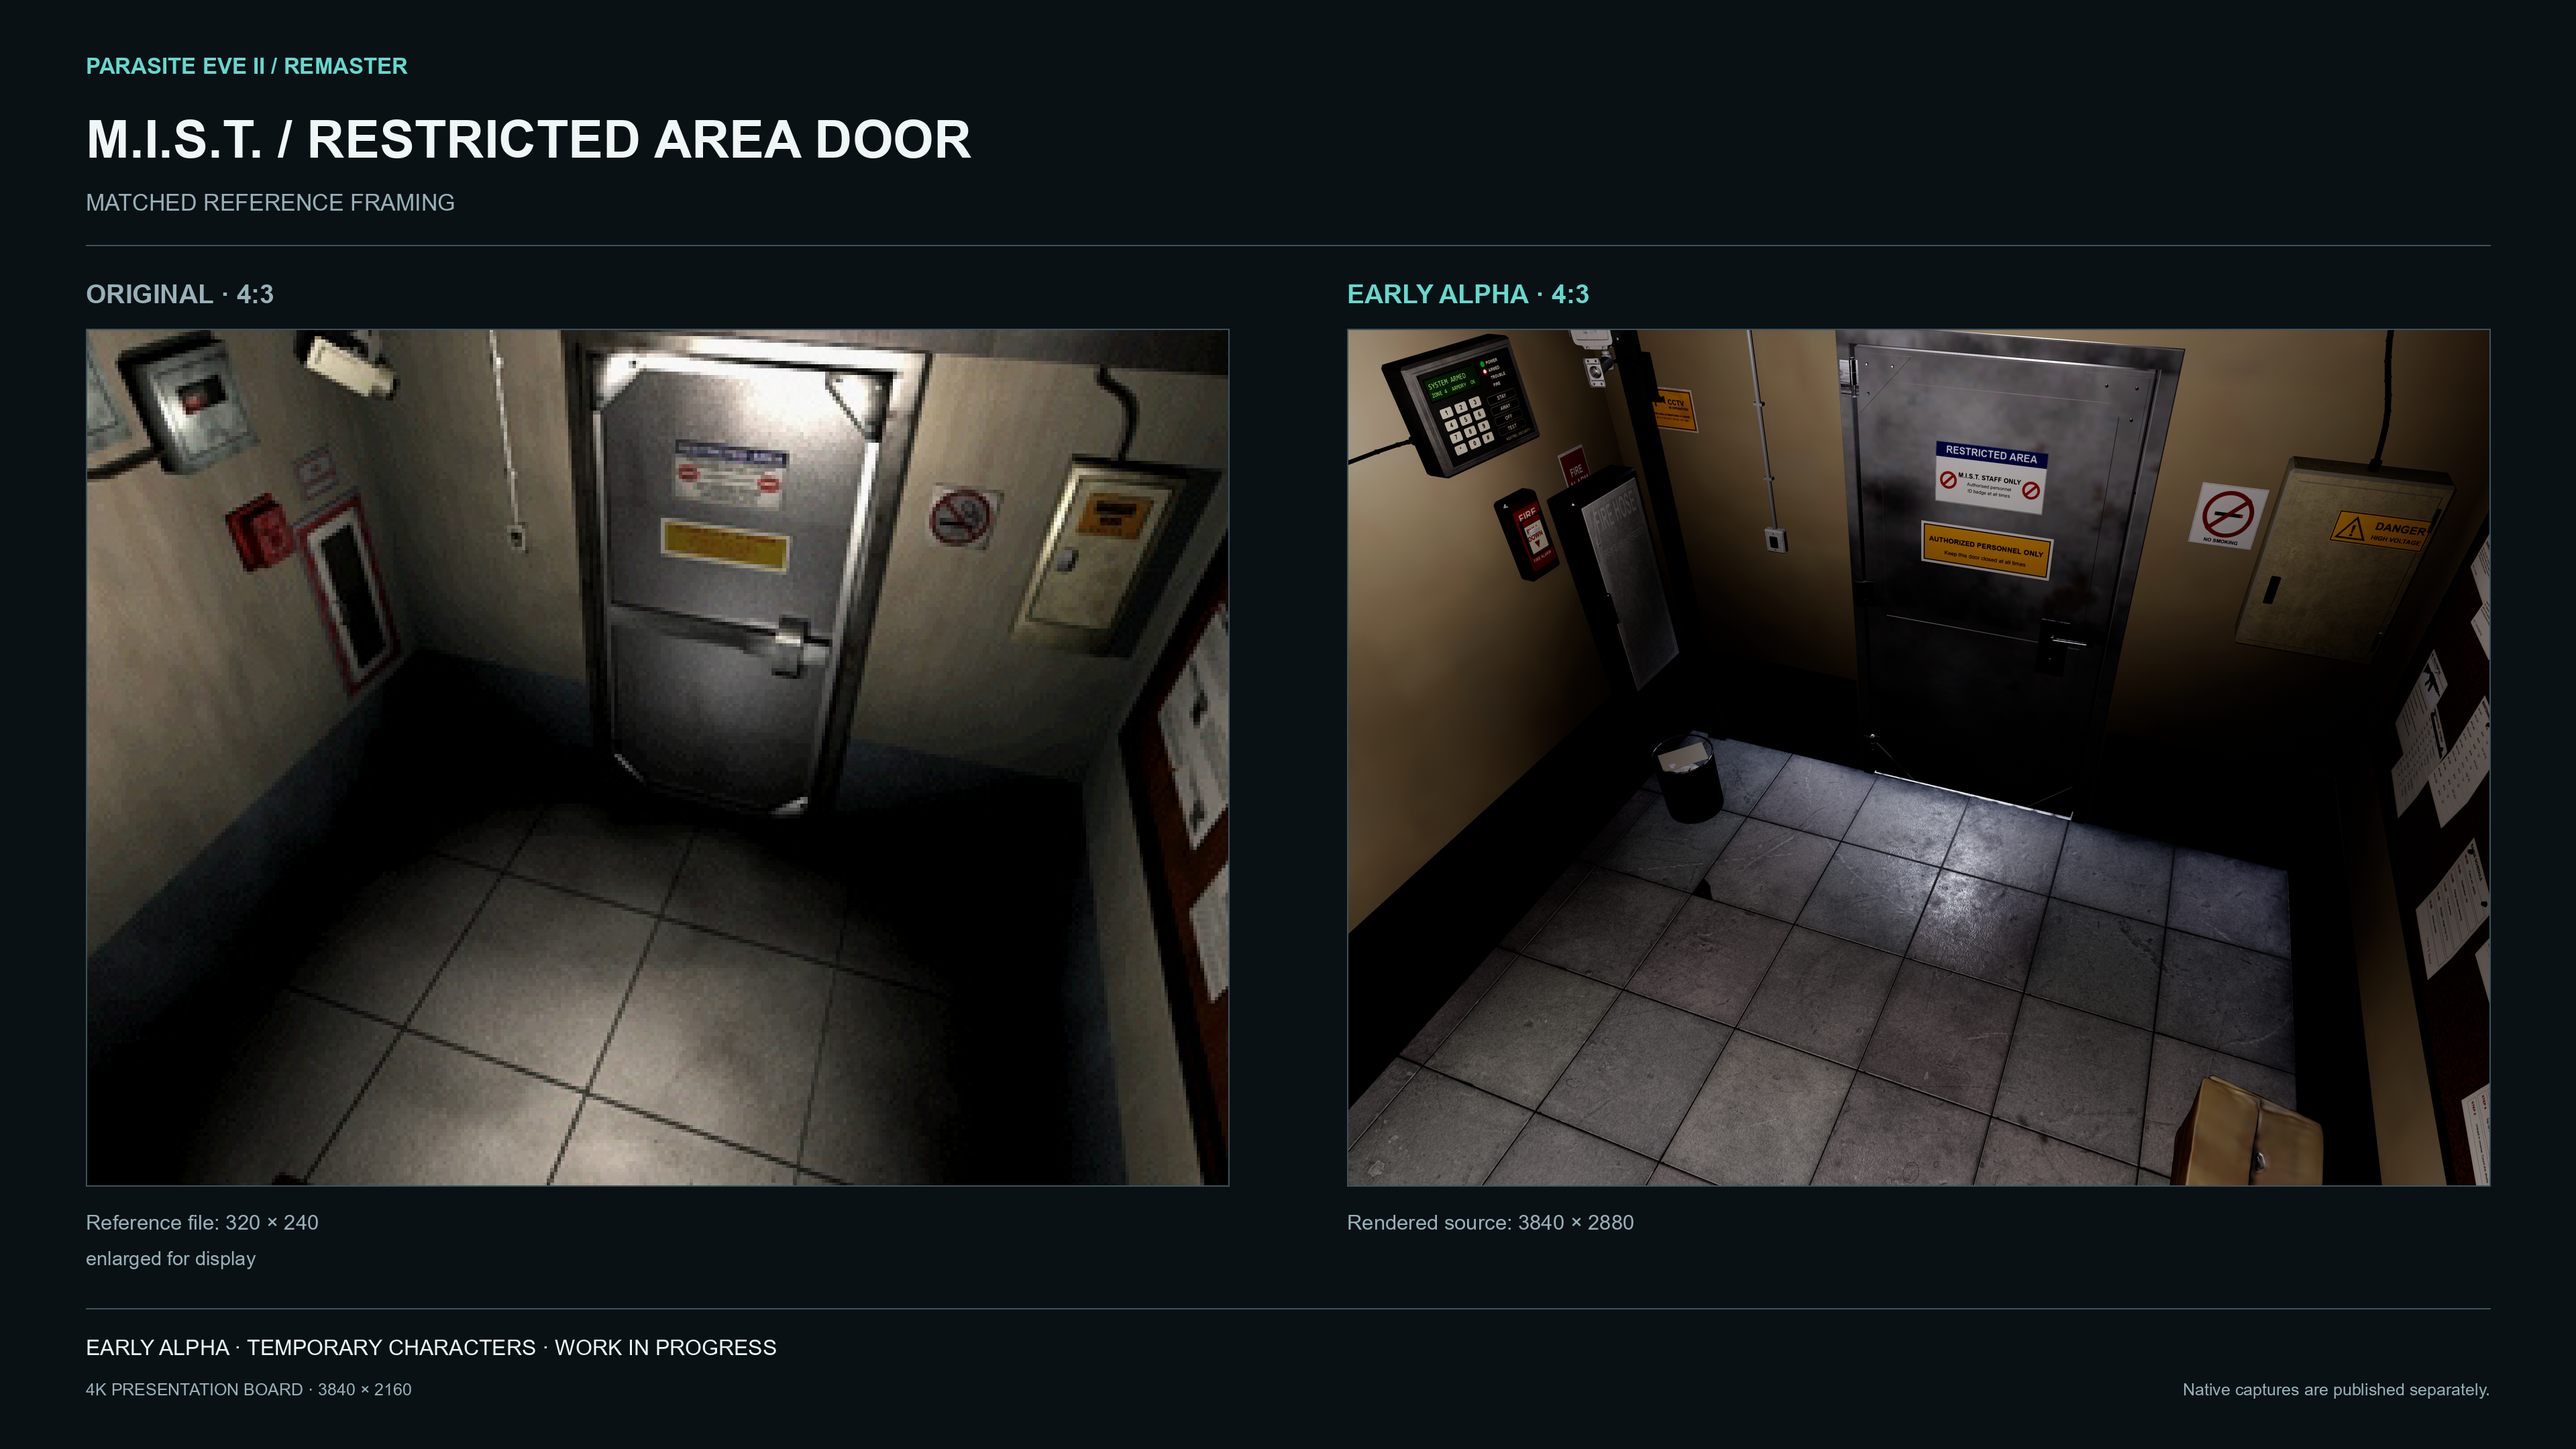
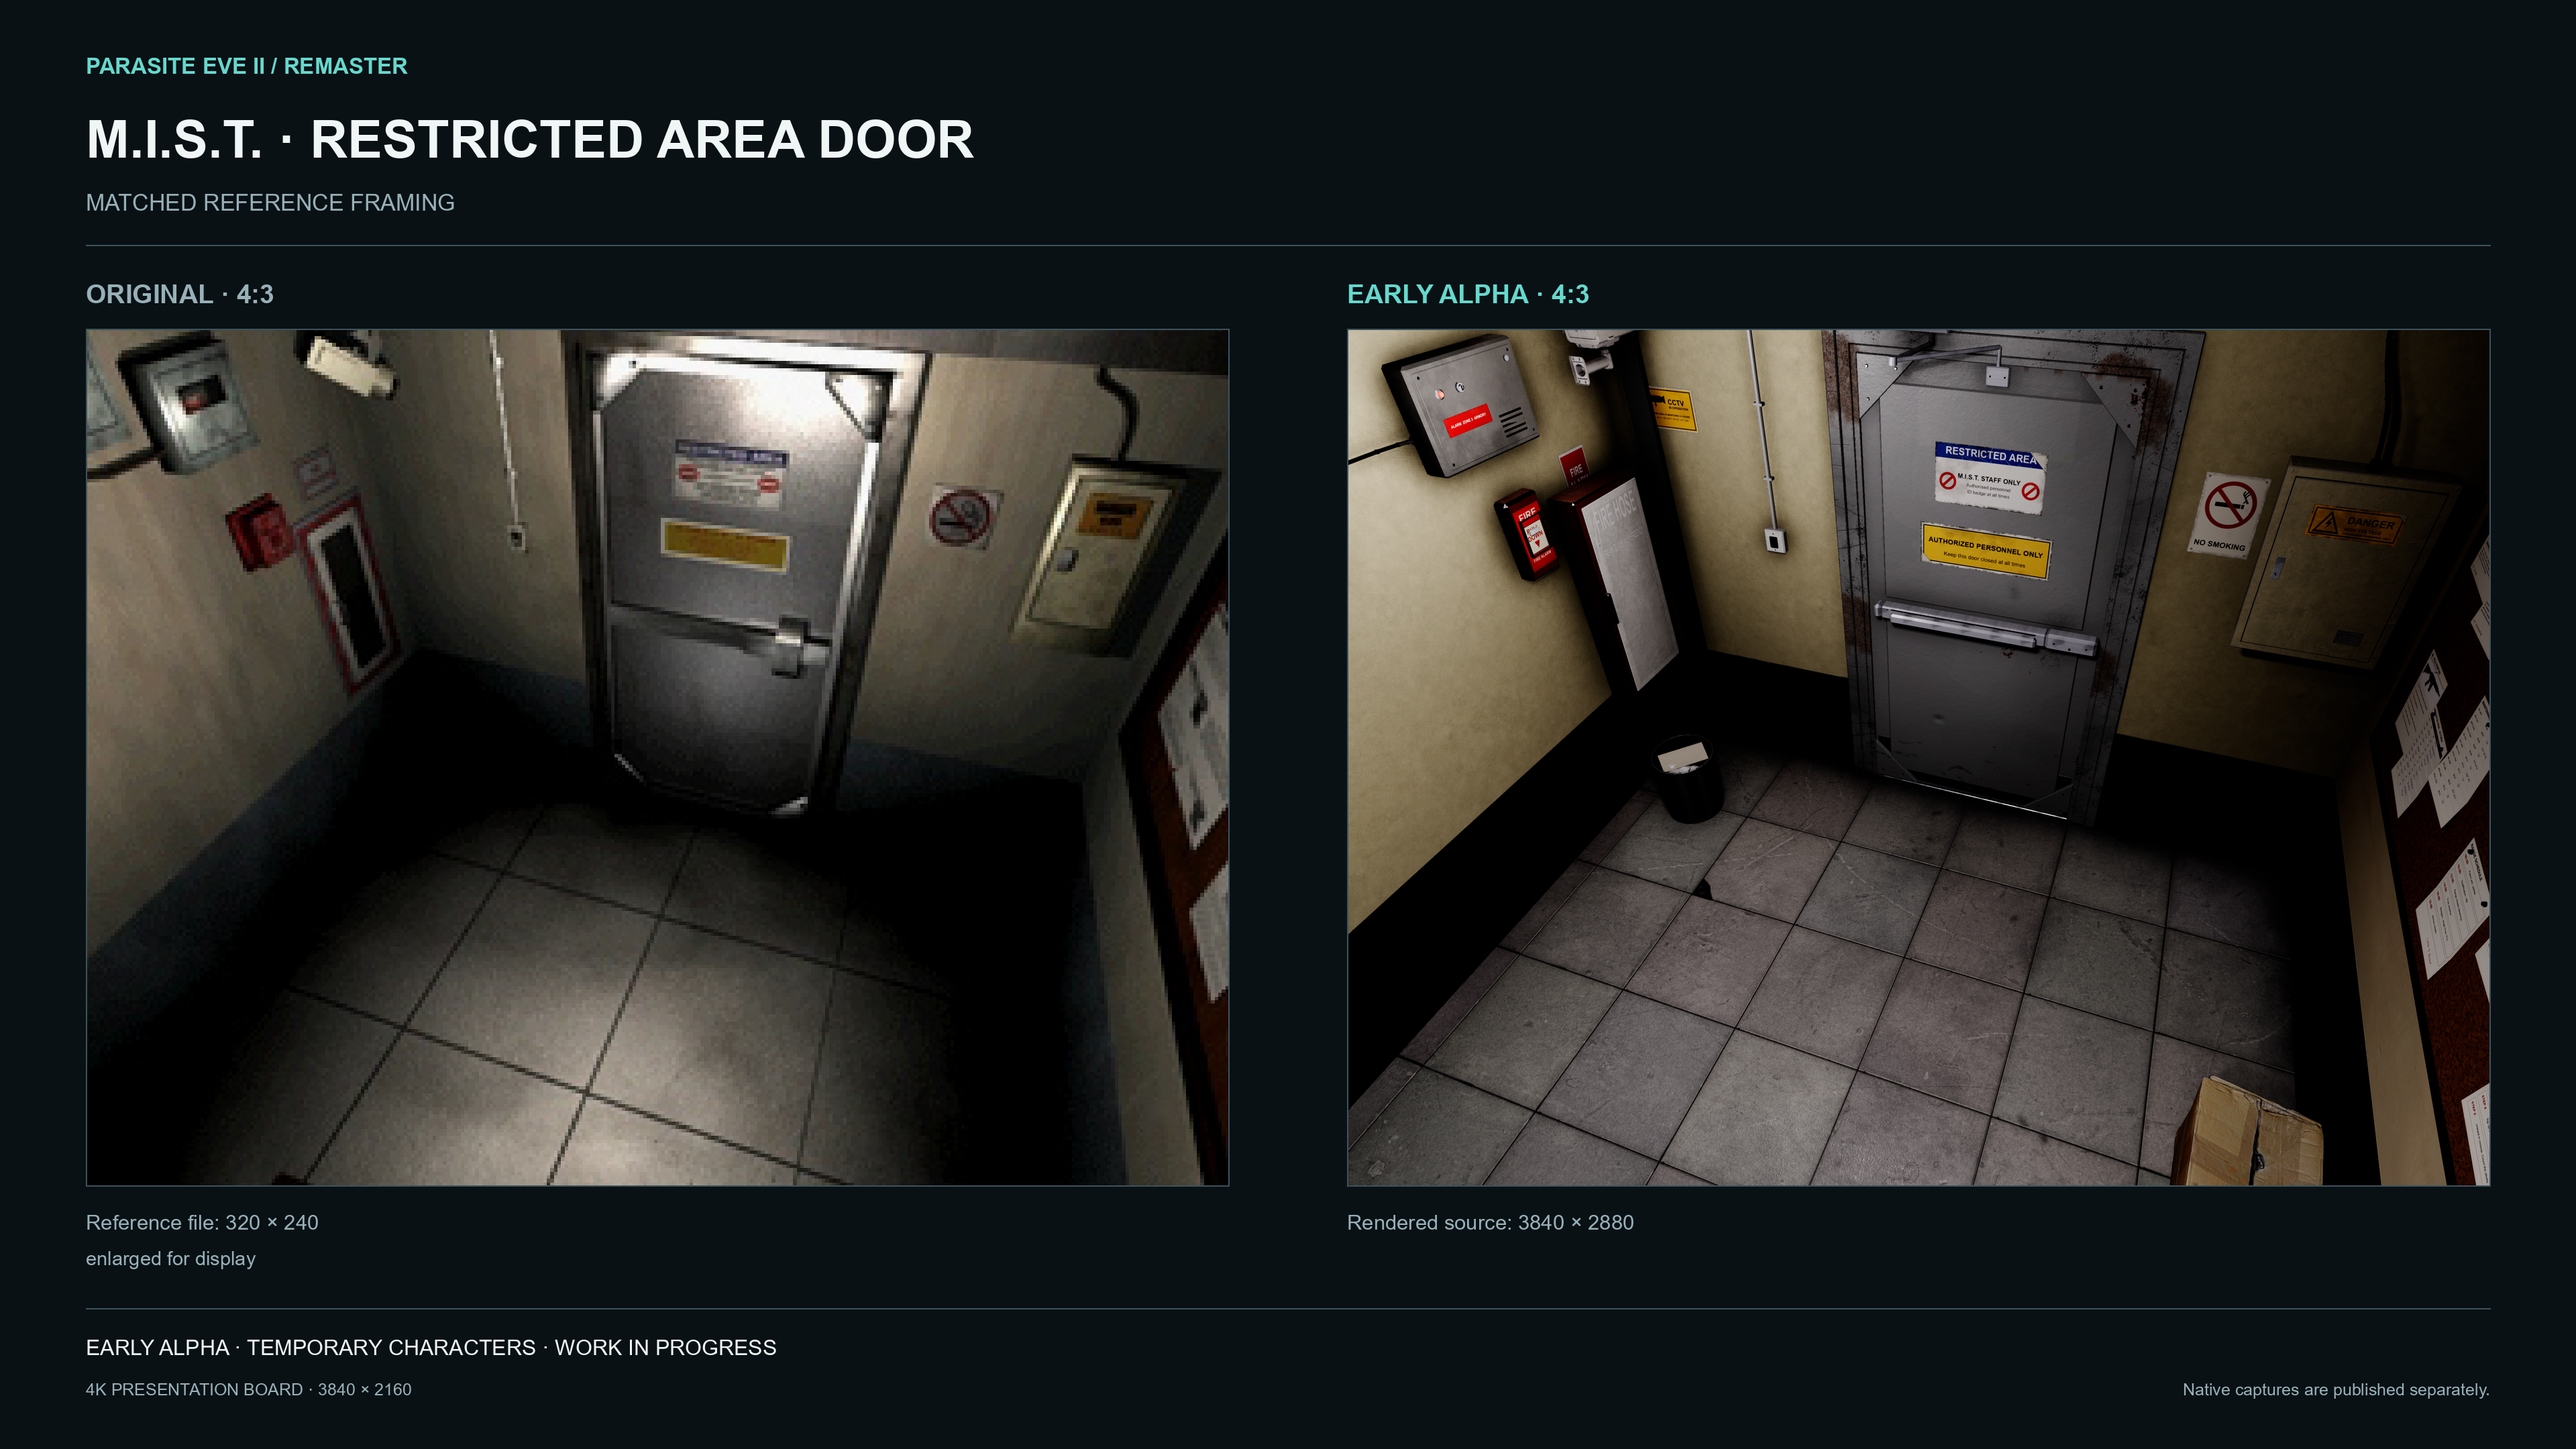
Update the restricted area door: real hardware (Von Duprin 99 exit device, LCN 4041 closer, Square D NQ board) and its own wear, new comparison and native capture

Changed region(s): [[0.5, 0.2171, 0.9688, 0.8375], [0.125, 0.062, 0.375, 0.1241]]

diff --git a/docs/PROGRESS.fr.md b/docs/PROGRESS.fr.md
@@ -19,6 +19,19 @@ Le travail avance par passes : construire, comparer, tester, puis corriger. Les 
 
 Aucune date de sortie n’est annoncée. Les voix, les cinématiques et l’extension au-delà des espaces actuels restent des pistes pour la suite.
 
+## Porte de la zone d’accès restreint du M.I.S.T. — point du 1er novembre 2026
+
+**Du vrai matériel, aux vraies dimensions.** Chaque équipement autour de la porte de la zone d’accès restreint reprend un produit réel, aux cotes du catalogue :
+- **La barre antipanique** est une Von Duprin 99 en chrome satiné : le rail du mécanisme de 57 × 57 mm, sa palette de poussée, l’embout et le boîtier central au-dessus du pêne, à 101 cm du sol.
+- **Le ferme-porte** est un LCN 4041 posé sur le dormant au-dessus de la porte, comme il le serait réellement : le corps sur la traverse haute, le bras qui s’avance dans la pièce, l’avant-bras qui revient à son sabot sur la porte.
+- **Le tableau électrique** est un tableau en applique Square D NQ : son caisson, le capot avec ses quatre vis, la porte affleurante avec son jour d’ombre et sa serrure, l’étiquette DANGER et une plaque signalétique rivetée.
+- **Le panneau NO SMOKING** est une plaque d’aluminium de 20 × 28 cm vissée aux quatre coins. Le coffret d’alarme montre ce que l’original montre : un coffret gris avec un voyant rouge, ici avec son contact à clé et une plaque gravée.
+- **La caméra** a maintenant sa platine posée contre le mur.
+
+**Une usure qui raconte quelque chose.** La porte, son cadre et les deux murs ont chacun leur surface peinte, faite une seule fois et jamais répétée. La crasse se concentre là où se posent les mains : autour de la barre, sur l’interrupteur, sur la porte du tableau. Les chaussures laissent du caoutchouc en bas de la porte. La peinture est écaillée le long de la rive jusqu’au primaire rouge, les clés ont rayé autour du cylindre, et un coup de pied a laissé une bosse. Des fissures de tassement partent des angles du linteau. Les stickers sont passés, leurs coins se décollent, et le chiffon a laissé ses traces.
+
+[![La porte de la zone d’accès restreint — original (gauche) et alpha (droite)](../media/comparisons/mist-restricted-door-4x3.png)](../media/alpha/mist-restricted-door-4x3.png)
+
 ## Salle de surveillance et armurerie du M.I.S.T. — point du 30 octobre 2026
 
 **La salle de surveillance.** Le présentoir à pistolets du fond de la salle est refait d’après l’image originale, mesurée point par point : un meuble bas sur tout le mur du fond, quatre gradins clairs inclinés vers la pièce et cinq casiers. Chaque arme repose sur du feutre, tenue par un câble antivol passé dans son pontet, avec son étiquette imprimée ; un casier est vide, son arme sortie. Une joue sombre devant le bureau, que l’original ne dessine jamais, est devenue le panneau de bout du bureau, et le mur au-dessus du présentoir est plus sombre, comme dans l’original.

diff --git a/README.fr.md b/README.fr.md
@@ -30,6 +30,8 @@ Ce dépôt présente les avancées du projet. Il s’agit d’une **alpha de dé
 
 **La salle de surveillance et l’armurerie, recalées sur l’original (30 octobre).** Le présentoir à pistolets de la salle de surveillance est refait d’après l’image originale : quatre gradins inclinés, les armes posées à plat et câblées. Dans l’armurerie, la cage suit maintenant l’original : un seul rail haut, un portillon sombre, et le comptoir fermé par le grillage avec un unique passe-objets. Les papiers du bureau sont passés du côté de l’armurière, et une lampe dans la cage projette l’ombre du grillage sur le mur, comme dans l’original. [Détails](docs/PROGRESS.fr.md#salle-de-surveillance-et-armurerie-du-mist--point-du-30-octobre-2026)
 
+**La porte de la zone d’accès restreint, détaillée avec du vrai matériel (1er novembre).** Chaque équipement reprend un produit réel : une barre antipanique Von Duprin 99, un ferme-porte LCN 4041 sur le dormant, un tableau électrique Square D NQ, une plaque signalétique rivetée, un panneau NO SMOKING en aluminium. La porte, les murs et les stickers portent leur propre usure, là où l’on touche, pousse et frappe. [Détails](docs/PROGRESS.fr.md#porte-de-la-zone-daccès-restreint-du-mist--point-du-1er-novembre-2026)
+
 **Ce dépôt est le meilleur endroit pour suivre le projet.** Il est mis à jour au fil du travail, avec de nouvelles comparaisons, des captures natives et des notes d’avancement datées.
 
 **[Évolution en images](docs/EVOLUTION.fr.md).** Chaque plan fixe du M.I.S.T. au fil d’octobre, de la première version complète à aujourd’hui, au même cadrage que l’original.
@@ -95,7 +97,7 @@ Chaque planche place l’**original** (à gauche) à côté de l’**alpha** (à
 *L’armurerie derrière sa cage grillagée · planche 3840 × 2160 · [capture native 3840 × 2880](media/alpha/mist-armoury-4x3.png)*
 
 [![Porte de la zone d’accès restreint — original (gauche) et alpha (droite)](media/comparisons/mist-restricted-door-4x3.png)](media/alpha/mist-restricted-door-4x3.png)
-*La porte de la zone d’accès restreint et son digicode · planche 3840 × 2160 · [capture native 3840 × 2880](media/alpha/mist-restricted-door-4x3.png)*
+*La porte de la zone d’accès restreint et sa barre antipanique · planche 3840 × 2160 · [capture native 3840 × 2880](media/alpha/mist-restricted-door-4x3.png)*
 
 [![Couloir de service — original (gauche) et alpha (droite)](media/comparisons/mist-corridor-4x3.png)](media/alpha/mist-corridor-4x3.png)
 *Le couloir de service vers la réserve d’armes · planche 3840 × 2160 · [capture native 3840 × 2880](media/alpha/mist-corridor-4x3.png)*

diff --git a/docs/PROGRESS.md b/docs/PROGRESS.md
@@ -19,6 +19,19 @@ Work progresses in focused passes: build, compare, test, then correct. Screensho
 
 There is no release ETA. Voice acting, cinematic work and expansion beyond the current environments are future possibilities, not completed features.
 
+## M.I.S.T. restricted area door — update of 1 November 2026
+
+**Real hardware, real sizes.** Every fitting around the restricted area door now copies a real product, at its catalogue dimensions:
+- **The exit device** across the door is a Von Duprin 99 in satin chrome: the 57 × 57 mm mechanism rail, its push pad, the end cap and the centre case over the latch, at 101 cm from the floor.
+- **The door closer** is an LCN 4041 mounted on the frame above the door, as it would be fitted: the body on the frame head, the arm reaching into the room, the forearm back to its shoe on the door.
+- **The electrical board** is a surface Square D NQ panelboard: its box, the trim with its four screws, the flush door with its shadow gap and its latch, the DANGER label and a riveted rating plate.
+- **The NO SMOKING sign** is a 20 × 28 cm aluminium plate screwed at its corners. The alarm box shows what the original shows: a grey box with a red lamp, here with its key switch and an engraved plate.
+- **The camera's** wall plate now sits on the wall.
+
+**Wear that tells a story.** The door, its frame and both walls have their own painted surface, made once for each and never repeated. The grime gathers where hands land: round the push bar, on the light switch, on the board's door. Boots leave rubber on the bottom of the door. The paint is chipped along the free edge down to the red primer, the keys have scratched round the cylinder, and a kick left a dent. Settlement cracks run from the corners of the door head. The stickers are faded, their corners lift, and the cleaning cloth has left its marks.
+
+[![The restricted area door — original (left) and alpha (right)](../media/comparisons/mist-restricted-door-4x3.png)](../media/alpha/mist-restricted-door-4x3.png)
+
 ## M.I.S.T. monitoring room and armoury — update of 30 October 2026
 
 **The monitoring room.** The gun display at the back of the room is rebuilt from the original frame, measured on it point by point: a low unit along the back wall with four light tiers sloping toward the room and five bays. Each handgun lies on felt, held by a security cable through its trigger guard, with a printed tag; one bay is empty, its gun signed out. A dark fin in front of the desk, which the original never draws, became the desk’s end panel, and the wall above the display is darker, as in the original.

diff --git a/README.md b/README.md
@@ -30,6 +30,8 @@ This repository is a public progress showcase. The project is an **early develop
 
 **The monitoring room and the armoury, refitted to the original (30 October).** The monitoring room’s gun display is rebuilt from the original frame: four sloping tiers, the handguns laid flat and cabled. In the armoury, the cage now follows the original: one header rail, a dark gate, and the counter closed by the mesh with a single pass-through. The desk’s paperwork has moved to the armourer’s side, and a lamp inside the cage casts the mesh’s shadow on the wall, as in the original. [Details](docs/PROGRESS.md#mist-monitoring-room-and-armoury--update-of-30-october-2026)
 
+**The restricted area door, detailed with real hardware (1 November).** Every fitting copies a real product: a Von Duprin 99 exit device across the door, an LCN 4041 closer on the frame, a Square D NQ distribution board, a riveted rating plate, an aluminium NO SMOKING sign. The door, the walls and the stickers carry their own wear, placed where people touch, push and kick. [Details](docs/PROGRESS.md#mist-restricted-area-door--update-of-1-november-2026)
+
 **This repository is the best place to follow the project.** It is updated as the work moves on, with new comparisons, native captures and dated progress notes.
 
 **[Visual evolution](docs/EVOLUTION.md).** Every fixed view of M.I.S.T. through October, from the first complete build to today, at the same framing as the original.
@@ -95,7 +97,7 @@ Each board puts the **original** (left) next to the **early alpha** (right) at t
 *The armoury behind its mesh cage · board 3840 × 2160 · [native capture 3840 × 2880](media/alpha/mist-armoury-4x3.png)*
 
 [![Restricted area door — original (left) and early alpha (right)](media/comparisons/mist-restricted-door-4x3.png)](media/alpha/mist-restricted-door-4x3.png)
-*The restricted area door and its keypad · board 3840 × 2160 · [native capture 3840 × 2880](media/alpha/mist-restricted-door-4x3.png)*
+*The restricted area door and its exit device · board 3840 × 2160 · [native capture 3840 × 2880](media/alpha/mist-restricted-door-4x3.png)*
 
 [![Service corridor — original (left) and early alpha (right)](media/comparisons/mist-corridor-4x3.png)](media/alpha/mist-corridor-4x3.png)
 *The service corridor toward the firearms store · board 3840 × 2160 · [native capture 3840 × 2880](media/alpha/mist-corridor-4x3.png)*
